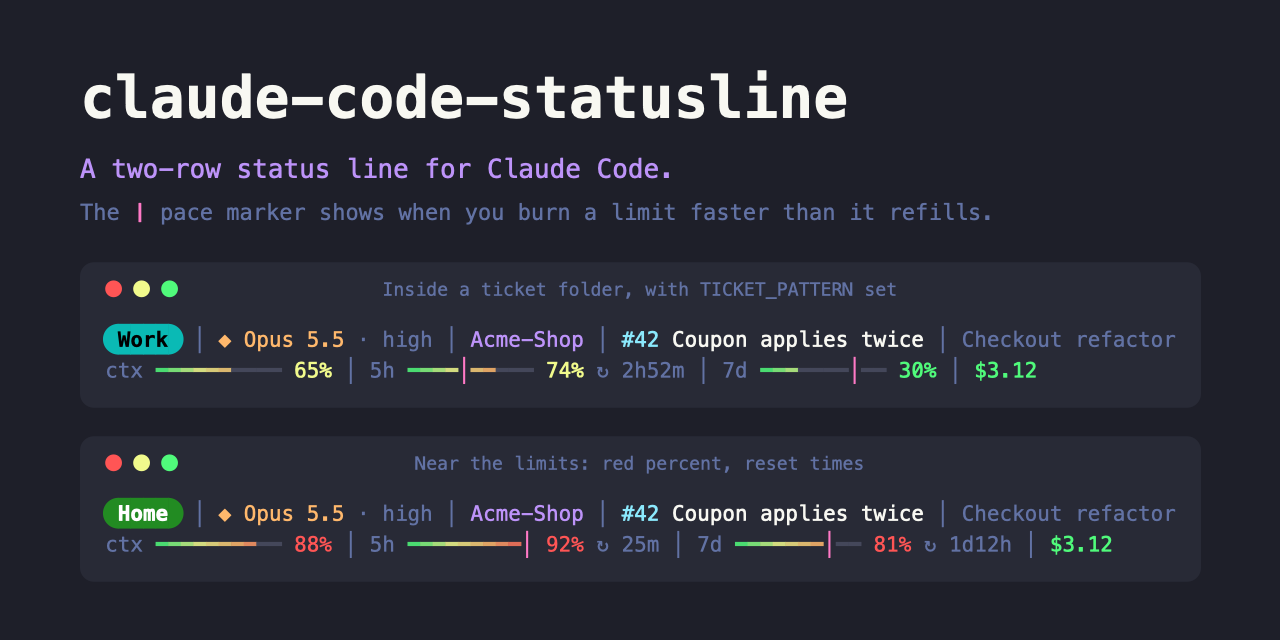
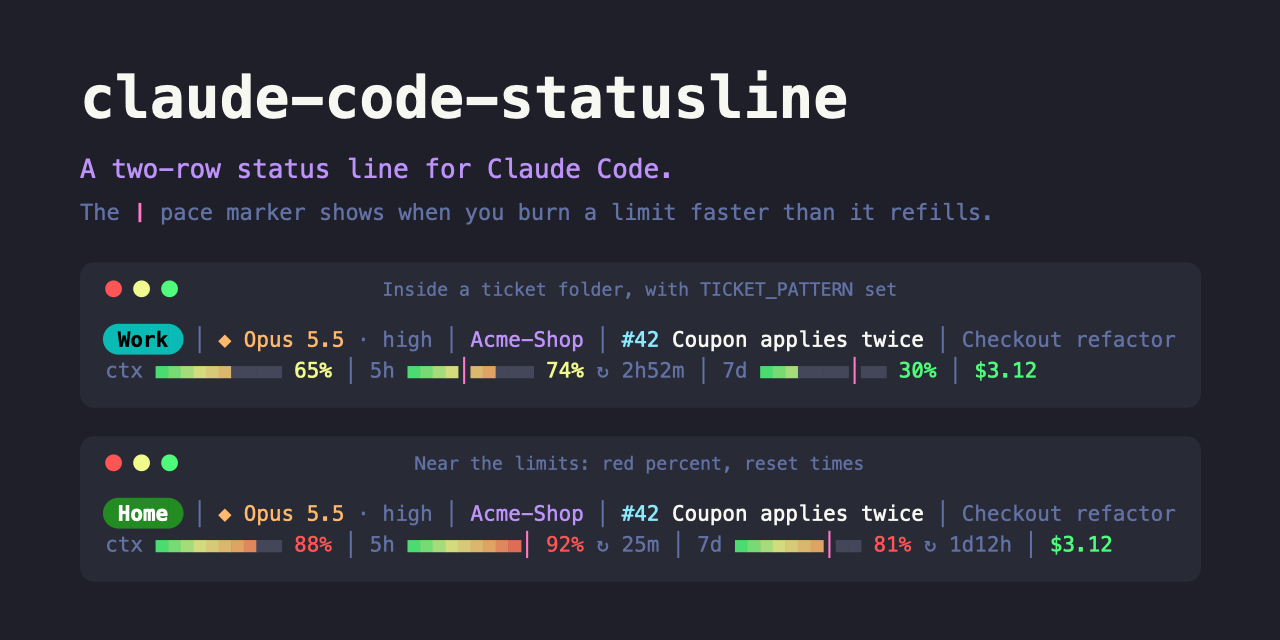
Sit the bars on the text baseline with ■ cells
Lower blocks (▆) hang below the baseline and ━ is thin. ■ runs from the
baseline to x-height across the full cell in common monospace Nerd Fonts,
so the bars line up with the labels and percents. Screenshots and the
social preview are redrawn.

diff --git a/tools/ansi2svg.py b/tools/ansi2svg.py
@@ -2,7 +2,7 @@
 """Render 24-bit ANSI terminal text (stdin) as an SVG terminal snippet (stdout).
 
 Understands the escape codes statusline.sh emits: reset, bold, 38;2 and 48;2 colours.
-Block and line glyphs and the Nerd Font chip caps are drawn as shapes, so the picture does not
+Block and square glyphs and the Nerd Font chip caps are drawn as shapes, so the picture does not
 depend on the viewer having those fonts.
 
 Usage: ... | python3 tools/ansi2svg.py [--title TEXT] > out.svg
@@ -17,8 +17,8 @@ BG, FG, MUTED = "#282a36", "#f8f8f2", "#6272a4"
 FONT = "'JetBrains Mono','SF Mono',Menlo,Consolas,'DejaVu Sans Mono',monospace"
 SGR = re.compile(r"\x1b\[([0-9;]*)m")
 BLOCKS = {"█": 1.0, "▇": 7 / 8, "▆": 3 / 4, "▅": 5 / 8, "▄": 1 / 2}
-LINE, LINE_W = "━", 3          # heavy line: centred in the cell, 3px thick
-SHAPES = "".join(BLOCKS) + "░" + LINE   # drawn, never set as text
+SQUARE, SQ_H = "■", 0.58         # black square: baseline to x-height, full cell wide (in em)
+SHAPES = "".join(BLOCKS) + "░" + SQUARE   # drawn, never set as text
 
 
 def cells(line):
@@ -70,8 +70,8 @@ def render(lines, title):
             if ch in BLOCKS:
                 hh = LH * BLOCKS[ch]
                 out.append(f'<rect x="{x:.1f}" y="{top + LH - hh:.1f}" width="{CW + 0.4:.1f}" height="{hh:.1f}" fill="{fg}"/>')
-            elif ch == LINE:
-                out.append(f'<rect x="{x:.1f}" y="{top + (LH - LINE_W) / 2:.1f}" width="{CW + 0.4:.1f}" height="{LINE_W}" fill="{fg}"/>')
+            elif ch == SQUARE:
+                out.append(f'<rect x="{x:.1f}" y="{base + 0.03 * FS - SQ_H * FS:.1f}" width="{CW + 0.4:.1f}" height="{SQ_H * FS:.1f}" fill="{fg}"/>')
             elif ch == "░":
                 out.append(f'<rect x="{x:.1f}" y="{top}" width="{CW + 0.4:.1f}" height="{LH}" fill="{fg}" opacity=".3"/>')
             elif ch == "\ue0b6":   # left half-circle cap

diff --git a/README.md b/README.md
@@ -37,7 +37,7 @@ The images on this page are drawn from made-up sessions by `tools/screenshots.sh
 - The pink **│** on the 5h and 7d bars is **pace**: how much of that window has already
   passed. Fill ahead of the marker means you are using the limit faster than it refills.
 - **↻ 2h52m** is the time until that limit resets. It only appears once a limit reaches 70%.
-- Bar cells are heavy-line glyphs (━), which sit on the middle of the line, level with the text.
+- Bar cells are ■, which sits on the text baseline like a letter, so the bars line up with the labels and percents.
 
 ![Near the limits](docs/screenshots/limits.svg)
 
